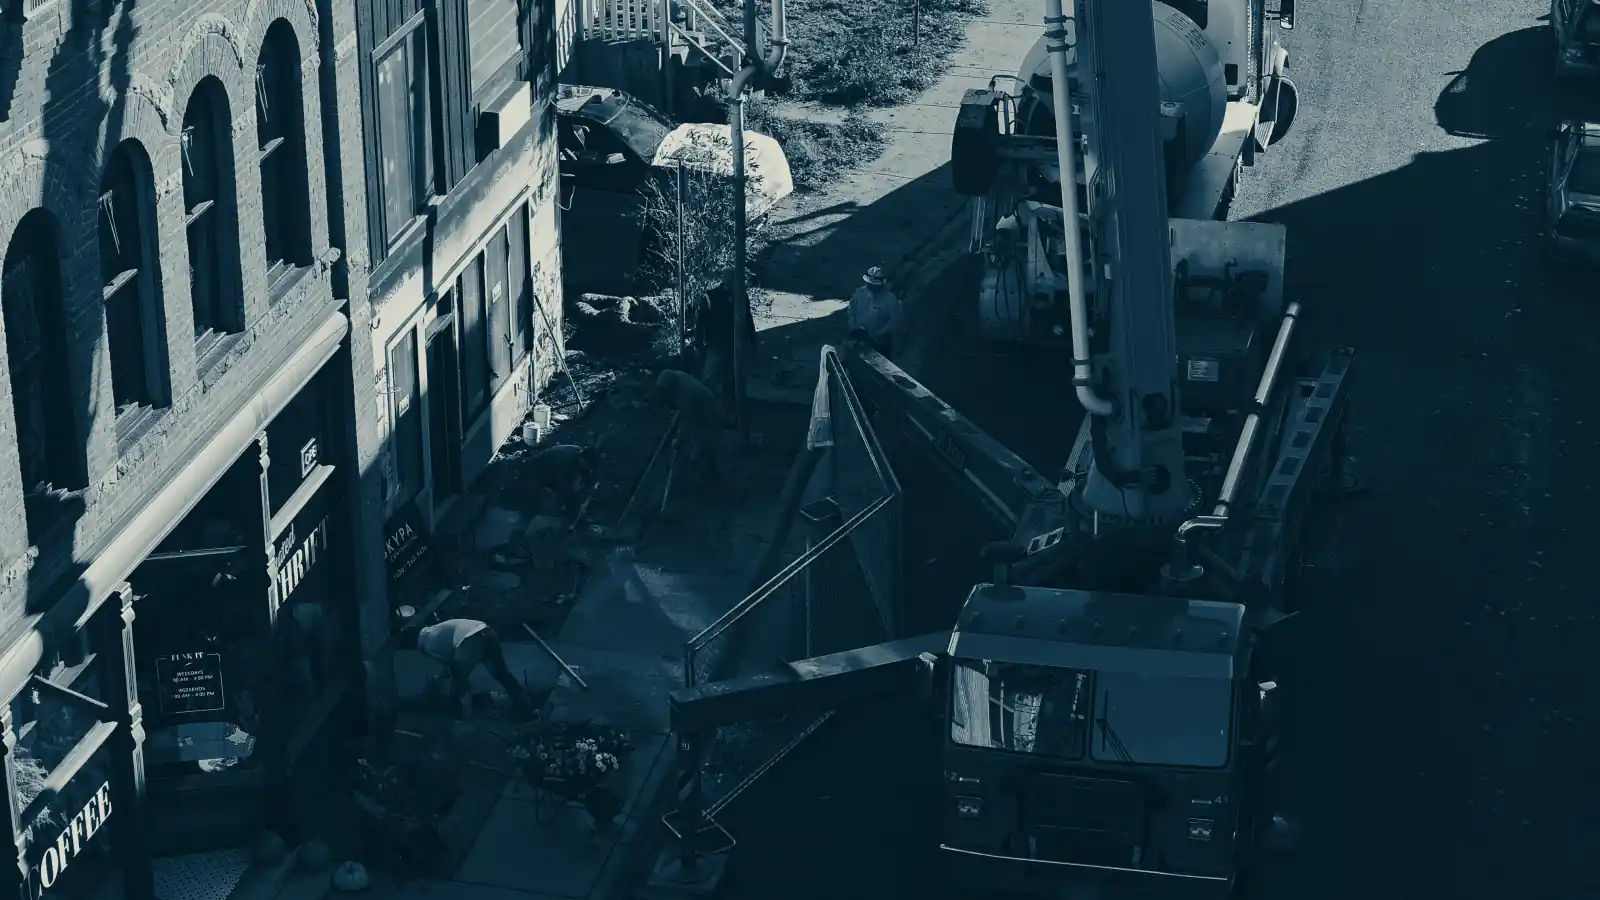
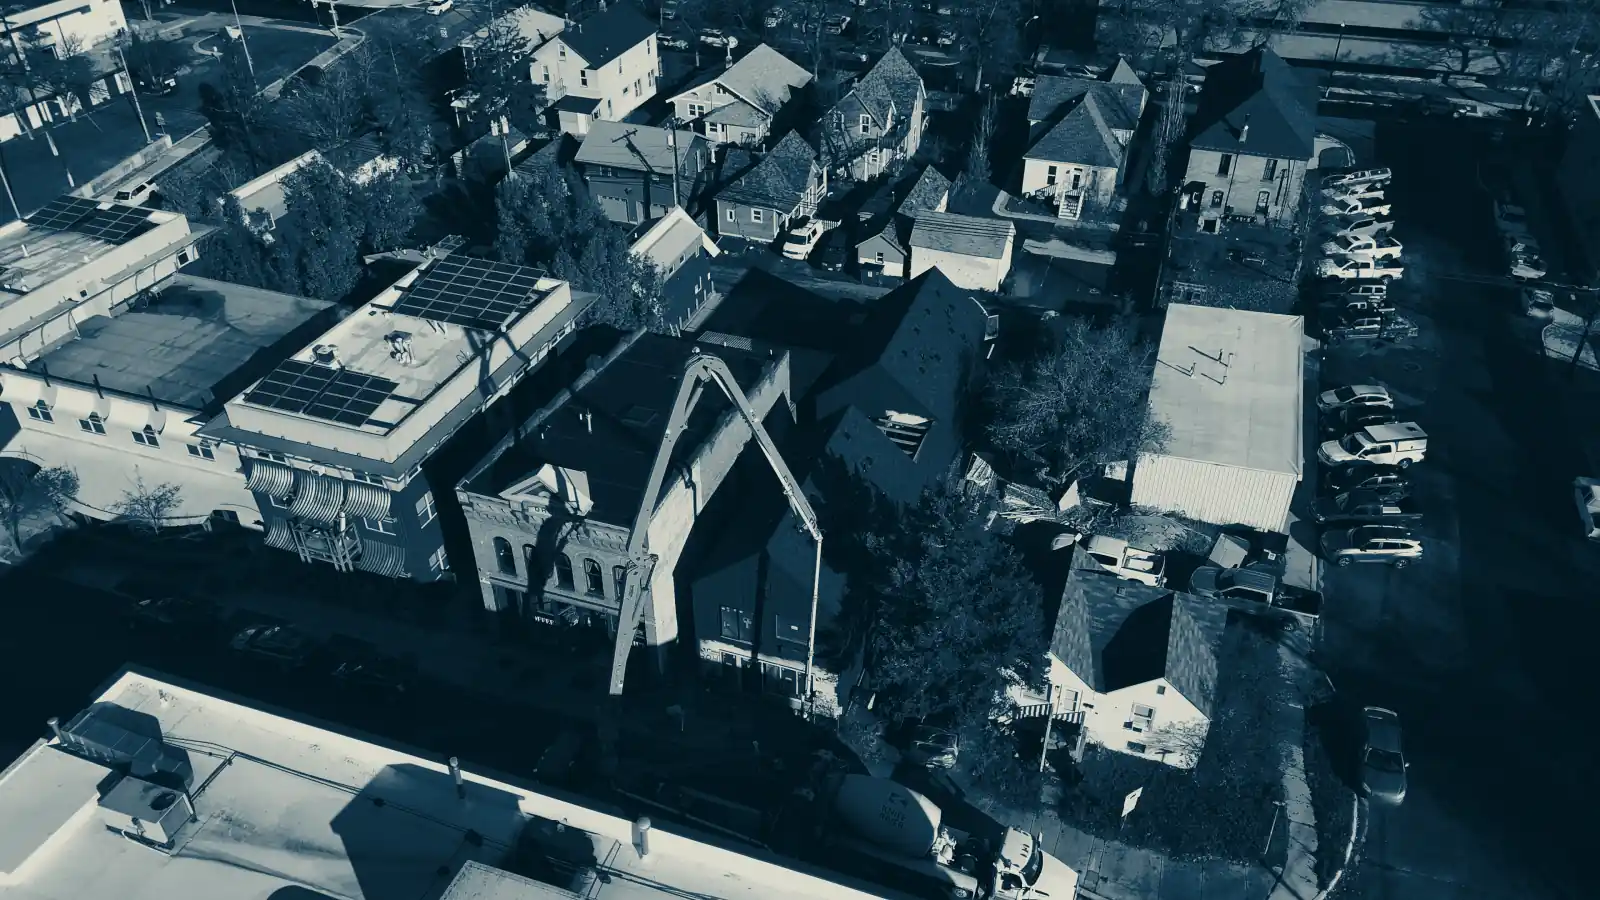
Approach opens on an aerial of North 1st from the drone footage
A still from the 4K drone clip of pour day (DJI 0064 at 16.5 s): both North 1st
buildings with the pump's boom arching over them, the old drugstore beside
them. Replaces the photograph of the crew placing the front walk.

Claude-Session: https://claude.ai/code/session_015wtZudxkpgeoFKxFWyeXkZ

diff --git a/approach/index.html b/approach/index.html
@@ -576,8 +576,8 @@ sup{font-size:.66em;line-height:0;color:var(--gold-lt);font-weight:400;margin-le
 <section class="view" id="view-approach">
   <div class="plate drift">
     <picture>
-      <source media="(orientation:portrait)" srcset="/img/crew-p.webp">
-      <img src="/img/crew-l.webp" alt="Seen from above, the crew placing and screeding a new concrete walk at the North 1st Street Condominiums in Missoula, a concrete pump truck in the street beside them" loading="lazy">
+      <source media="(orientation:portrait)" srcset="/img/above-p.webp">
+      <img src="/img/above-l.webp" alt="The North 1st Street Condominiums in Missoula from the air on pour day: two dark gabled buildings beside a historic brick storefront, a concrete pump's yellow boom arching over them" loading="lazy">
     </picture>
     <div class="inner">
       <h1>We do things differently</h1>
